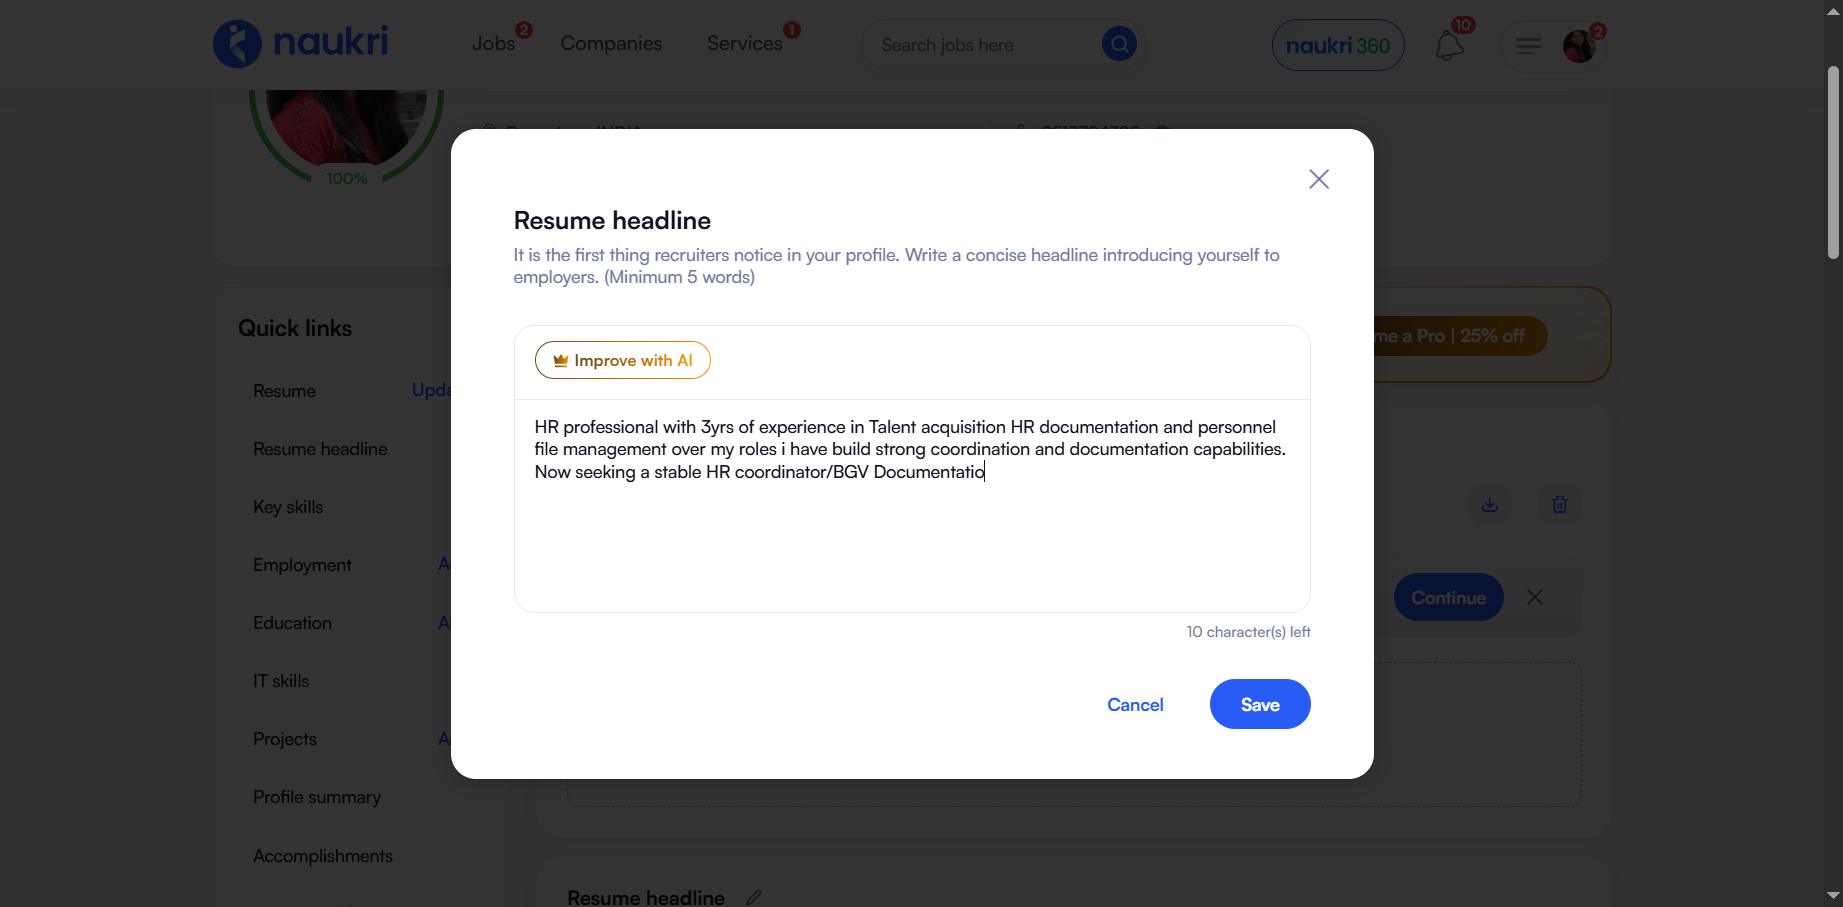
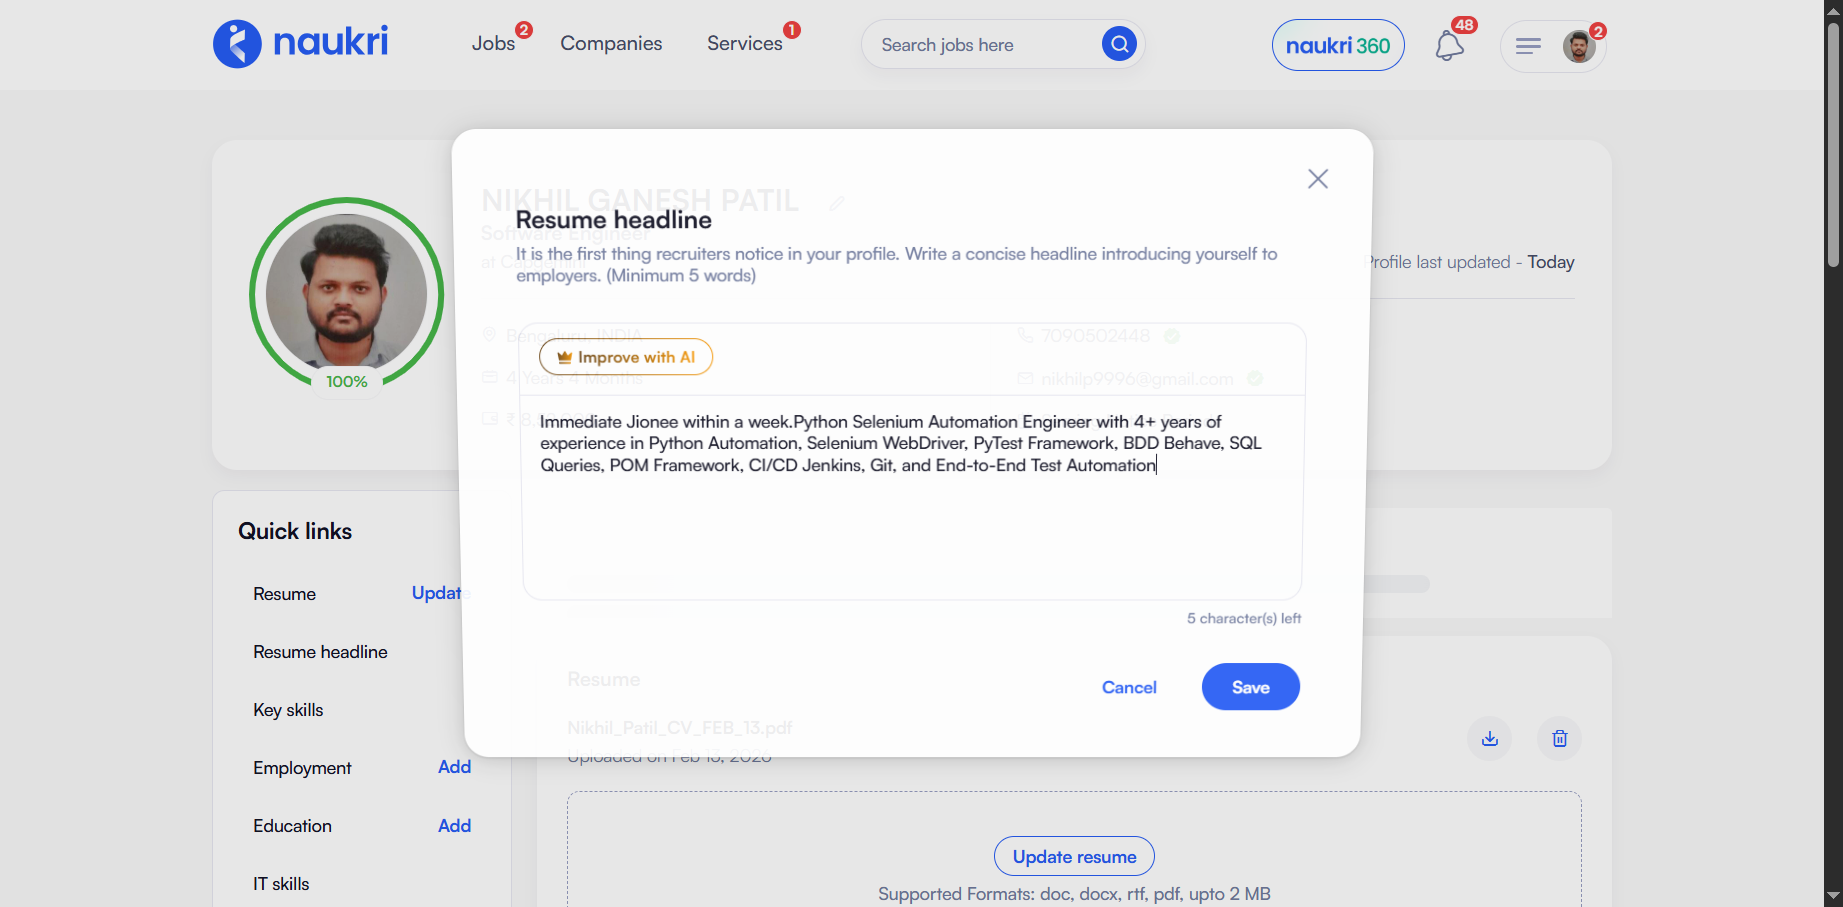
complete naurki

diff --git a/test/test_update.py b/test/test_update.py
@@ -13,15 +13,18 @@ def test_login(setup):
     url = read_configuration("basic info","url")
     login_xpath = read_configuration("xpath",'login_btn')
     driver.implicitly_wait(15)
+    wait = WebDriverWait(driver,10)
     driver.get(url)
-    #time.sleep(10)
-    driver.find_element(By.XPATH,login_xpath).click()
+    time.sleep(10)
+    driver.get_screenshot_as_file(r"C:\Users\ADMIN\PycharmProjects\PythonProject\screenshots\url_load.png")
+    wait.until(EC.element_to_be_clickable((By.XPATH, "//a[@id='login_Layer']"))).click()
+    #driver.find_element(By.XPATH,login_xpath).click()
     username_xpath = read_configuration("xpath","username")
     username = read_configuration("login","username")
     pass_xpath = read_configuration("xpath","pass")
     password = read_configuration("login","pass")
 
-    wait = WebDriverWait(driver,10)
+
     wait.until(EC.visibility_of_element_located((By.XPATH,username_xpath))).send_keys(username)
     wait.until(EC.visibility_of_element_located((By.XPATH,pass_xpath))).send_keys(password)
     wait.until(EC.visibility_of_element_located((By.XPATH,"//button[normalize-space()='Login']"))).click()
@@ -47,6 +50,9 @@ def test_login(setup):
     wait.until(EC.visibility_of_element_located((By.XPATH,"//textarea[@id='resumeHeadlineTxt']"))).send_keys(".")
     wait.until(EC.visibility_of_element_located((By.XPATH,"//button[normalize-space()='Save']"))).click()
     time.sleep(10)
+    driver.get_screenshot_as_file(r"C:\Users\ADMIN\PycharmProjects\PythonProject\screenshots\profile_updated.png")
+    driver.find_element(By.XPATH,"//div[contains(@class,'profileUpdatedProLayer')]//child::span[normalize-space()='CrossLayer']").click()
 
+    time.sleep(15)
 
 

diff --git a/test/conftest.py b/test/conftest.py
@@ -1,6 +1,7 @@
 import pytest
 from selenium import webdriver
 from selenium.webdriver.chrome.options import Options
+from selenium.webdriver.common.by import By
 
 from Utilities.readconfiguration import read_configuration
 
@@ -14,14 +15,26 @@ def setup():
         "profile.password_manager_service":False,
         "profile.password_manager_leak_detection":False
     }
-    opt.add_argument("--headless=new")
+    #opt.add_argument("--headless=new")
+    #opt.add_argument("--window-size=1920,1080")
+    #opt.add_argument("--disable-gpu")
+    #opt.add_argument("--no-sandbox")
+    #opt.add_argument("--disable-dev-shm-usage")
+    #opt.add_argument("--disable-blink-features=AutomationControlled")
     opt.add_experimental_option("prefs",pref)
+
 
     if browser.__eq__("Chrome"):
         driver = webdriver.Chrome(options=opt)
         driver.maximize_window()
 
 
+
+    driver.implicitly_wait(15)
+
     yield driver
 
+    driver.find_element(By.XPATH,"//img[@class='nI-gNb-icon-img']").click()
+    driver.find_element(By.XPATH,"//a[@title='Logout']").click()
+    driver.get_screenshot_as_file(r"C:\Users\ADMIN\PycharmProjects\PythonProject\screenshots\logout.png")
     driver.quit()
